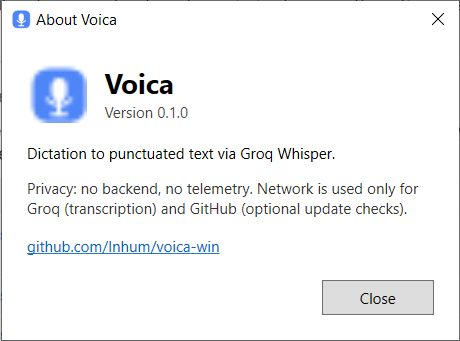
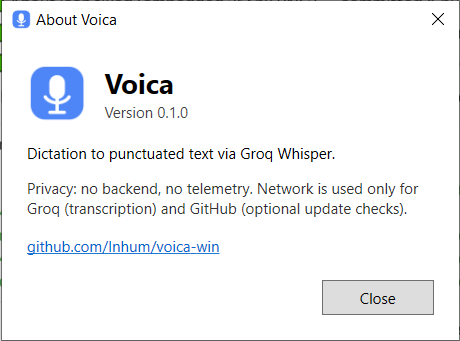
Render README screenshots via markdown; update About/tray shots
GitHub does not rewrite relative src in raw HTML <img> tags on the rendered
README, so the screenshots didn't load. Switch to markdown image syntax (which
GitHub rewrites to a served URL) and add the cropped tray icon. Refresh
about.png/tray.png with the crisp icon and cropped tray.

diff --git a/README.md b/README.md
@@ -34,15 +34,17 @@ the same cross‑platform [behavior spec](docs/CORE-SPEC.md).
 
 **Settings** — the whole app in one window:
 
-<img src="docs/settings.png" width="480" alt="Settings window" />
+![Settings window](docs/settings.png)
 
 **History** — browse, re‑copy, play, delete:
 
-<img src="docs/history.png" width="560" alt="History window" />
+![History window](docs/history.png)
 
-**About**:
+**About**, and the tray icon (idle):
 
-<img src="docs/about.png" width="380" alt="About window" />
+![About window](docs/about.png)
+
+![Tray icon](docs/tray.png)
 
 ## Requirements
 

diff --git a/README.ru.md b/README.ru.md
@@ -33,15 +33,17 @@ Voica — маленькое фоновое приложение в систем
 
 **Настройки** — всё приложение в одном окне:
 
-<img src="docs/settings.png" width="480" alt="Окно настроек" />
+![Окно настроек](docs/settings.png)
 
 **История** — просмотр, повторное копирование, воспроизведение, удаление:
 
-<img src="docs/history.png" width="560" alt="Окно истории" />
+![Окно истории](docs/history.png)
 
-**О программе**:
+**О программе** и иконка в трее (покой):
 
-<img src="docs/about.png" width="380" alt="Окно «О программе»" />
+![Окно «О программе»](docs/about.png)
+
+![Иконка в трее](docs/tray.png)
 
 ## Требования
 